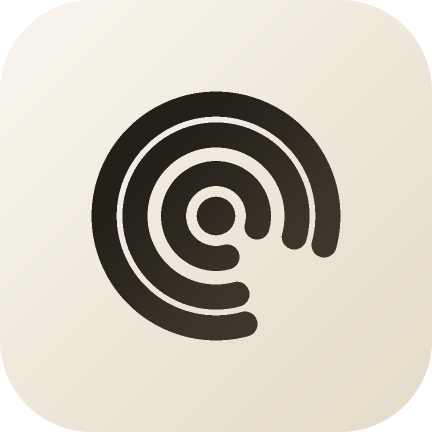
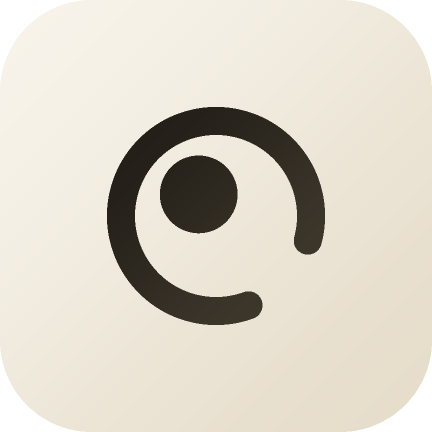
fix(ui): 图标减为一道缺口环 + 偏心点，加大四周留白
三道同心环把画布撑到 31.1dp，视觉上又挤又晕。减到一道环，
中心点移到左上与缺口相对，图形外沿收到 27.3dp。
无同心的重复结构，视线不再被带着往里转。

Changed region(s): [[0.2106, 0.2106, 0.8125, 0.8125]]

diff --git a/tool/gen_icons.dart b/tool/gen_icons.dart
@@ -9,7 +9,7 @@
 // ⚠ 内容的**大小**另由 kContentScale 控制：安全区只有中心直径 66dp 的圆，
 // 不缩会在圆形遮罩下被切掉最外环（详见该常量处的说明）。
 //
-// 图形：**三道缺口环 + 中心点**，暖纸底 + 墨色环。缺口都在右下方，
+// 图形：**一道缺口环 + 偏心点**，暖纸底 + 墨色图形。缺口落在右下方，
 // 读作「一次扫到一半的检索」——环向外扩散、被截断在同一个方向。
 //
 // 产物（全部被 .gitignore 之外的真实文件，直接进版本库）：
@@ -39,12 +39,11 @@ const double kCorner = 34;
 
 /// 内容相对设计稿的整体缩放。
 ///
-/// 最外环的中轴半径 46.4、环粗 10.4 ⇒ 最远像素在 51.6 单位。乘 0.893 后落到 46.1 单位
-/// （31.1dp），安全区半径是 33dp —— 合规，但已经贴得比较近：**再放大就会越界**，
-/// 结尾的自检会打 ❌。想改形状先跑一次脚本看那行实际半径。
-///
-/// 缩放以画布中心为原点，图形本身关于中心对称，所以不需要额外的居中补偿。
-const double kContentScale = 0.893;
+/// 图形只有一道环 + 一个点，最远像素在 40.4 单位（27.3dp），安全区半径 33dp ——
+/// 留了将近 6dp 的余量。**这是刻意的**：之前那版把三道环铺满到 31.1dp，
+/// 一屏图标里显得又挤又晕，加这一道留白是主要修正。
+/// 想放大可以往上调，跑到 48.9 单位（33dp）就是极限，结尾的自检会打 ❌。
+const double kContentScale = 1.0;
 
 // 配色：暖纸底 + 墨色图形。启动屏（colors.xml 的 brand_paper）取纸色起点值。
 const int kPaper0 = 0xF7F3EA; // 纸色渐变起点（左上）
@@ -52,21 +51,22 @@ const int kPaper1 = 0xE6DDCB; // 纸色渐变终点（右下）
 const int kInk0 = 0x242019;   // 墨色渐变起点（左上）
 const int kInk1 = 0x3D362B;   // 墨色渐变终点（右下）
 
-/// 三道缺口环的中轴半径，从内到外。
+/// 唯一那道缺口环的中轴半径。
 ///
-/// 内环内沿 12.4、中心点半径 8 ⇒ 中间留 4.4 单位空隙，缩到 24px 时约 1.4px，
-/// 是「点」和「环」还能分开的底线。
-const List<double> kRingR = [17.6, 33.6, 46.4];
+/// 只用一道环是这一版的关键：三道同心环会让视线不断向内追，看着「晕」。
+const double kRingR = 35.2;
 
 /// 环的粗细。缩到 24px 时约 1.6px —— 再细就会在低密度屏上发虚。
 const double kRingW = 10.4;
 
-/// 缺口的角度区间（度，屏幕坐标：0° 朝右、正角朝下）。三道环共用同一个缺口，
-/// 断口叠在右下方形成一道贯穿的斜切口，这是这个图形唯一的识别特征。
-const double kGapFrom = 15, kGapTo = 75;
+/// 缺口的角度区间（度，屏幕坐标：0° 朝右、正角朝下）——断口落在右下方。
+const double kGapFrom = 15, kGapTo = 70;
 
-/// 中心点半径
-const double kDotR = 8;
+/// 中心点：半径，以及相对圆心的偏移。
+///
+/// 点**故意偏离圆心**（往左上），正好落在缺口的对面。同心结构一旦被打破，
+/// 眼睛就不会顺着环一圈圈打转 —— 这是「晕」的第二个修正点。
+const double kDotR = 14.4, kDotX = -6.4, kDotY = -8.0;
 
 // ---------------------------------------------------------------- 几何判定
 
@@ -117,17 +117,15 @@ bool _inRing(double x, double y, double r, double w) {
   return false;
 }
 
-/// 中心点
-bool _inDot(double x, double y) => x * x + y * y <= kDotR * kDotR;
-
-/// 整个图形：中心点 + 三道缺口环。
-bool _inMark(double x, double y) {
-  if (_inDot(x, y)) return true;
-  for (final r in kRingR) {
-    if (_inRing(x, y, r, kRingW)) return true;
-  }
-  return false;
+/// 偏心点
+bool _inDot(double x, double y) {
+  final dx = x - kDotX, dy = y - kDotY;
+  return dx * dx + dy * dy <= kDotR * kDotR;
 }
+
+/// 整个图形：一道缺口环 + 一个偏心的点。
+bool _inMark(double x, double y) =>
+    _inDot(x, y) || _inRing(x, y, kRingR, kRingW);
 
 // ---------------------------------------------------------------- 渐变
 
@@ -188,7 +186,7 @@ int _shade(double x, double y, {required bool background, required bool monochro
 /// 单色层（Android 13+ 主题图标）逐像素求值。
 ///
 /// 系统会忽略这一层的颜色、只取**形状**再统一染色。这里直接把整个图形涂成同一个黑，
-/// 形状本身（三道断口对齐的环 + 中心点）就足以立住。
+/// 形状本身（一道断口环 + 一个偏心的点）就足以立住。
 int _shadeMono(double x, double y) {
   final (ax, ay) = _art(x, y);
   return _inMark(ax, ay) ? 0xFF000000 : 0;

diff --git a/DEVELOPMENT.md b/DEVELOPMENT.md
@@ -77,7 +77,7 @@ magic "FINDR" (5 字节) + 版本 u16 (=1) + 标准 ZIP
 - 改图只改 `tool/gen_icons.dart` 顶部常量，然后 `dart run tool/gen_icons.dart` 一次重出全部尺寸，别手改位图
 - **品牌色三处同步**：脚本 `kPaper0` / `kPaper1`、`drawable/ic_launcher_background.xml` 的渐变两端、`values/colors.xml` 的 `brand_paper`（启动屏用它，取渐变起点色）
 - **内容必须落在直径 66dp 安全区内**（半径 33dp），脚本结尾会打一行自检，显示 ❌ 就是 `kContentScale` 调大了
-- **单色层（主题图标）只有形状有意义**：直接取整个图形的实心轮廓（三道缺口环 + 中心点），颜色交给系统
+- **单色层（主题图标）只有形状有意义**：直接取整个图形的实心轮廓（一道缺口环 + 偏心点），颜色交给系统
 - 换图标覆盖安装即可，**不用卸载**（只有换签名才要）
 
 ## 发布流程
